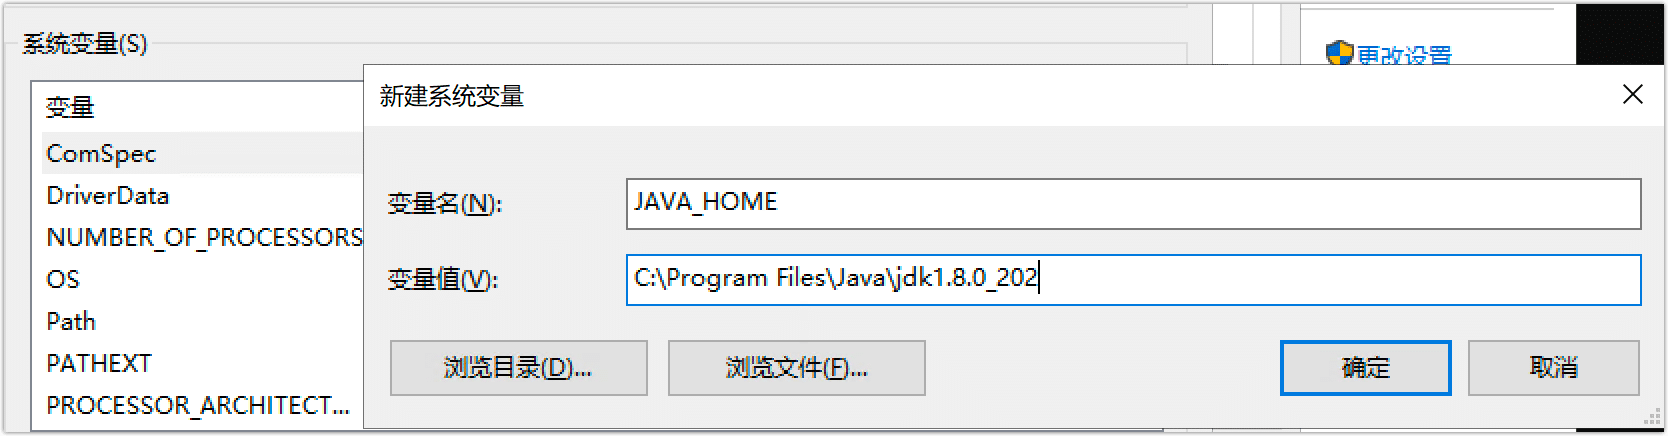
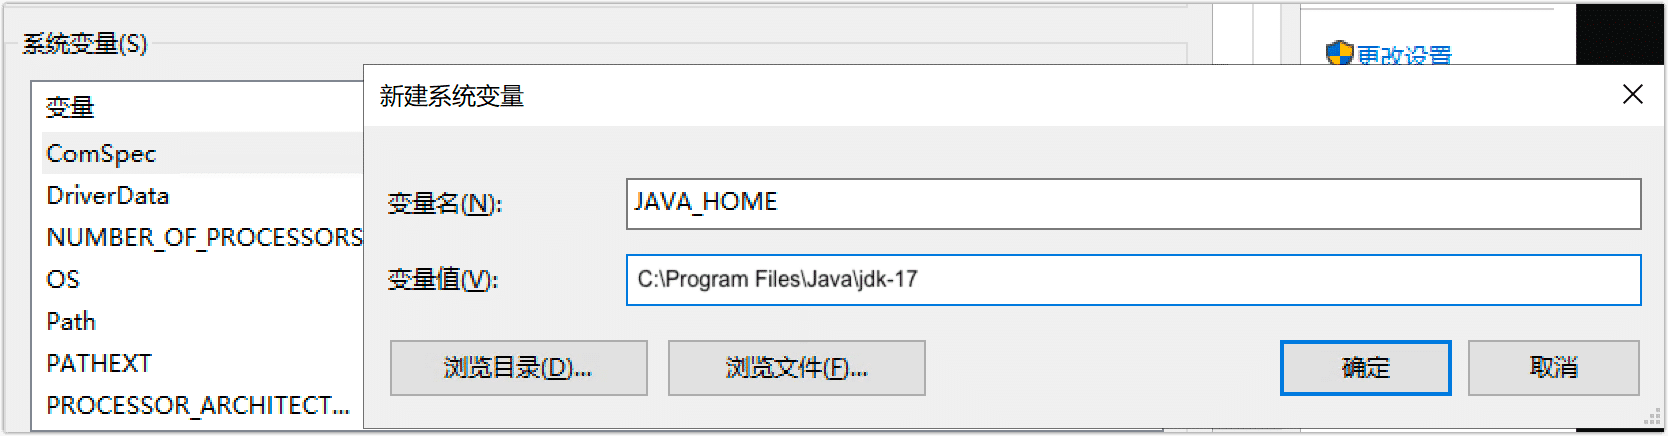
Update java requirement from 1.8 to 17

Changed region(s): [[0.3741, 0.5963, 0.6235, 0.6858], [0.4365, 0.8349, 0.4676, 0.8647], [0.3118, 0.8349, 0.3429, 0.8647]]

diff --git a/docs/installation/install-tapdata-enterprise/install-on-windows.md b/docs/installation/install-tapdata-enterprise/install-on-windows.md
@@ -22,9 +22,9 @@ import Content from '../../reuse-content/_enterprise-features.md';
 
 1. [部署 MongoDB 数据库](../../administration/production-deploy/install-replica-mongodb.md)，该库将作为 TapData 存储系统运行相关数据，例如日志、元数据等。
 
-2. 登录至待部署的设备上，安装 Java 1.8 并设置环境变量。
+2. 登录至待部署的设备上，安装 Java 17 并设置环境变量。
 
-   1. [下载 Java 1.8](https://www.oracle.com/java/technologies/javase/javase8-archive-downloads.html) 并根据提示完成安装。
+   1. [下载 Java 17](https://www.oracle.com/java/technologies/javase/jdk17-archive-downloads.html) 并根据提示完成安装。
 
    2. 进入**控制面板** > **系统和安全** > **系统**。
 
@@ -37,7 +37,7 @@ import Content from '../../reuse-content/_enterprise-features.md';
       ![添加变量](../../images/add_system_env.png)
    
       * **变量名**：`JAVA_HOME`
-      * **变量值**：JDK 的安装路径，本例为 `C:\Program Files\Java\jdk1.8.0_202`
+      * **变量值**：JDK 的安装路径，本例为 `C:\Program Files\Java\jdk-17`
    
    5. 在**系统变量**区域框中，找到并双击名为 **Path** 的变量，然后在弹出的对话框中，分别新建下述环境变量，最后单击**确定**。
    
@@ -54,9 +54,9 @@ import Content from '../../reuse-content/_enterprise-features.md';
    7. （可选）打开命令行，执行`java -version` 命令验证环境变量有效性，执行成功后示例如下：
 
       ```bash
-      java version "1.8.0_202"
-      Java(TM) SE Runtime Environment (build 1.8.0_202-b08)
-      Java HotSpot(TM) 64-Bit Server VM (build 25.202-b08, mixed mode)
+      java version "17.0.x"
+      Java(TM) SE Runtime Environment (build 17.0.x+xx)
+      Java HotSpot(TM) 64-Bit Server VM (build 17.0.x+xx, mixed mode)
       ```
    
       
@@ -114,7 +114,7 @@ import Content from '../../reuse-content/_enterprise-features.md';
    System initialized. To start Tapdata, run: tapdata start
    WORK DIR:/root/tapdata
    Testing JDK...
-   java version:1.8
+   java version:17
    Java environment OK.
    Unpack the files...
    Restart TapdataAgent ...:

diff --git a/docs/administration/production-deploy/install-tapdata-ha.md b/docs/administration/production-deploy/install-tapdata-ha.md
@@ -50,10 +50,10 @@ import AsciinemaPlayer from '@site/src/components/AsciinemaPlayer/AsciinemaPlaye
 
 2. 安装环境依赖。
 
-   1. 执行下述命令安装 Java 1.8 版本。
+   1. 执行下述命令安装 Java 17 版本。
 
       ```bash
-      yum -y install java-1.8.0-openjdk
+      yum -y install java-17-openjdk
       ```
 
    2. 安装 MongoDB（4.0 及以上版本），该库将作为中间库存储任务等数据，具体操作，见[官方文档](https://www.mongodb.com/docs/v4.4/administration/install-on-linux/)。
@@ -66,7 +66,7 @@ import AsciinemaPlayer from '@site/src/components/AsciinemaPlayer/AsciinemaPlaye
    tar -zxvf 安装包名&&cd tapdata
    ```
 
-   例如：`tar -zxvf tapdata-release-v2.14.tar.gz&&cd tapdata`
+   例如：`tar -zxvf tapdata-release-v4.10.tar.gz&&cd tapdata`
    
    :::tip
    如需将解压后的程序文件复制到其他目录进行部署，请使用 `cp -a` 命令复制整个目录，避免使用 `*` 通配符匹配文件，以免遗漏隐藏文件导致启动失败。
@@ -118,7 +118,7 @@ import AsciinemaPlayer from '@site/src/components/AsciinemaPlayer/AsciinemaPlaye
    System initialized. To start Tapdata, run: tapdata start
    WORK DIR:/root/tapdata
    Testing JDK...
-   java version:1.8
+   java version:17
    Java environment OK.
    Unpack the files...
    Restart TapdataAgent ...:
@@ -235,7 +235,7 @@ import AsciinemaPlayer from '@site/src/components/AsciinemaPlayer/AsciinemaPlaye
    System initialized. To start Tapdata, run: tapdata start
    WORK DIR:/root/tapdata
    Testing JDK...
-   java version:1.8
+   java version:17
    Java environment OK.
    Unpack the files...
    frontend server started.begin deploy init

diff --git a/docs/installation/install-tapdata-enterprise/install-tapdata-stand-alone.md b/docs/installation/install-tapdata-enterprise/install-tapdata-stand-alone.md
@@ -39,10 +39,10 @@ import Content from '../../reuse-content/_enterprise-features.md';
 
 2. 安装环境依赖。
 
-   1. 执行下述命令安装 Java 1.8 版本。
+   1. 执行下述命令安装 Java 17 版本。
 
       ```bash
-      yum -y install java-1.8.0-openjdk
+      yum -y install java-17-openjdk
       ```
 
    2. [安装 MongoDB](../../administration/production-deploy/install-replica-mongodb.md)（4.0 及以上版本），该库将作为中间库存储任务等数据。
@@ -55,7 +55,7 @@ import Content from '../../reuse-content/_enterprise-features.md';
    tar -zxvf 安装包名&&cd tapdata
    ```
 
-   例如：`tar -zxvf tapdata-release-v2.14.tar.gz&&cd tapdata`
+   例如：`tar -zxvf tapdata-release-v4.10.tar.gz&&cd tapdata`
 
    :::tip
    如需将解压后的程序文件复制到其他目录进行部署，请使用 `cp -a` 命令复制整个目录，避免使用 `*` 通配符匹配文件，以免遗漏隐藏文件导致启动失败。
@@ -104,7 +104,7 @@ import Content from '../../reuse-content/_enterprise-features.md';
    System initialized. To start Tapdata, run: tapdata start
    WORK DIR:/root/tapdata
    Testing JDK...
-   java version:1.8
+   java version:17
    Java environment OK.
    Unpack the files...
    Restart TapdataAgent ...:

diff --git a/docs/administration/production-deploy/deploy-on-huawei-k8s.md b/docs/administration/production-deploy/deploy-on-huawei-k8s.md
@@ -495,11 +495,11 @@ data:
 
     setup_java() {
         if [[ -z "$JAVA_VERSION" || $JAVA_VERSION == "java8" ]]; then
-            daas_log INFO "Setting up java version: java8"
-            update-alternatives --set java /usr/java/jdk1.8.0_311/bin/java
-            update-alternatives --set javac /usr/java/jdk1.8.0_311/bin/javac
-            update-alternatives --set jar /usr/java/jdk1.8.0_311/bin/jar
-            echo 'export PATH="/usr/java/jdk1.8.0_311/bin:$PATH"' >> /etc/profile && . /etc/profile
+            daas_log INFO "Setting up java version: java17"
+            update-alternatives --set java /usr/java/jdk-17.0.12/bin/java
+            update-alternatives --set javac /usr/java/jdk-17.0.12/bin/javac
+            update-alternatives --set jar /usr/java/jdk-17.0.12/bin/jar
+            echo 'export PATH="/usr/java/jdk-17.0.12/bin:$PATH"' >> /etc/profile && . /etc/profile
         elif [[ $JAVA_VERSION == "java11" ]]; then
             daas_log INFO "Setting up java version: java11"
             update-alternatives --set java /usr/java/jdk-11.0.25/bin/java

diff --git a/docs/administration/production-deploy/install-tapdata-ha-with-3-node.md b/docs/administration/production-deploy/install-tapdata-ha-with-3-node.md
@@ -36,10 +36,10 @@ import Content from '../../reuse-content/_enterprise-features.md';
    sed -i "s/enforcing/disabled/g" /etc/selinux/config 
    ```
 
-2. 执行下述命令安装 Java 1.8 版本，安装环境依赖。
+2. 执行下述命令安装 Java 17 版本，安装环境依赖。
 
    ```bash
-   yum -y install java-1.8.0-openjdk
+   yum -y install java-17-openjdk
    ```
 
 3. 设置机器时间与时区，保持一致。
@@ -121,7 +121,7 @@ import Content from '../../reuse-content/_enterprise-features.md';
    System initialized. To start Tapdata, run: tapdata start
    WORK DIR:/data/tapdata/tapdata_work
    Testing JDK...
-   java version:1.8
+   java version:17
    Java environment OK.
    Unpack the files...
    frontend server started.begin deploy init

diff --git a/docs/installation/install-tapdata-agent/agent-on-selfhosted.md b/docs/installation/install-tapdata-agent/agent-on-selfhosted.md
@@ -73,7 +73,7 @@ TapData Cloud 按照订阅 Agent 实例的**规格**和**数量**收费，您可
        <li>硬件环境：x86 架构处理器</li>
        <li>操作系统：64 位</li>
        <li>网络环境：可连通公网，且可与源/目标数据库通信</li>
-       <li>软件依赖：Linux 平台依赖 Java 1.8 版本，可执行 java -version 命令查看版本，手动安装命令：yum -y install java-1.8.0-openjdk</li>
+       <li>软件依赖：Linux 平台依赖 Java 17 版本，可执行 java -version 命令查看版本，手动安装命令：yum -y install java-17-openjdk</li>
      </ul>
 
    </details>

diff --git a/docs/administration/operation.md b/docs/administration/operation.md
@@ -184,10 +184,10 @@ TapData 运行期间，所有任务配置、共享缓存等关键数据均保存
       sed -i "s/enforcing/disabled/g" /etc/selinux/config 
       ```
 
-   2. 安装  Java 1.8 版本。
+   2. 安装  Java 17 版本。
 
       ```bash
-      yum -y install java-1.8.0-openjdk
+      yum -y install java-17-openjdk
       ```
 
    3. 设置系统时间。
